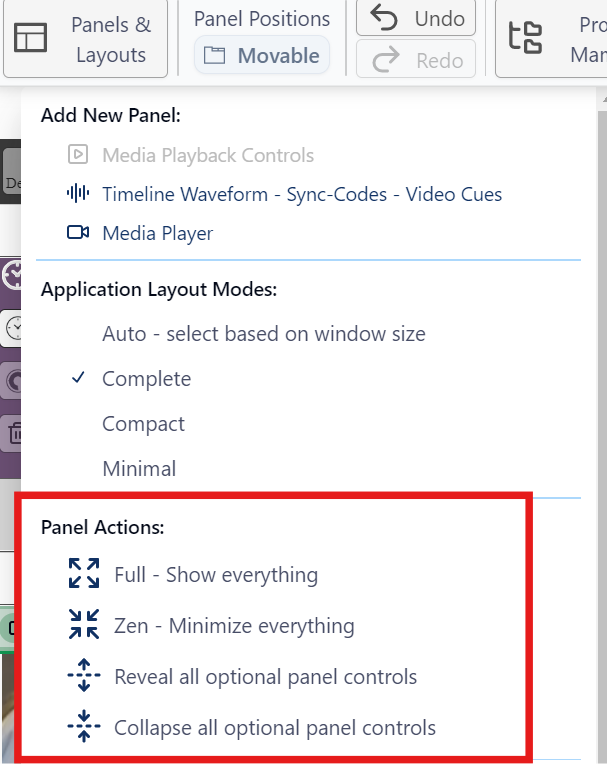
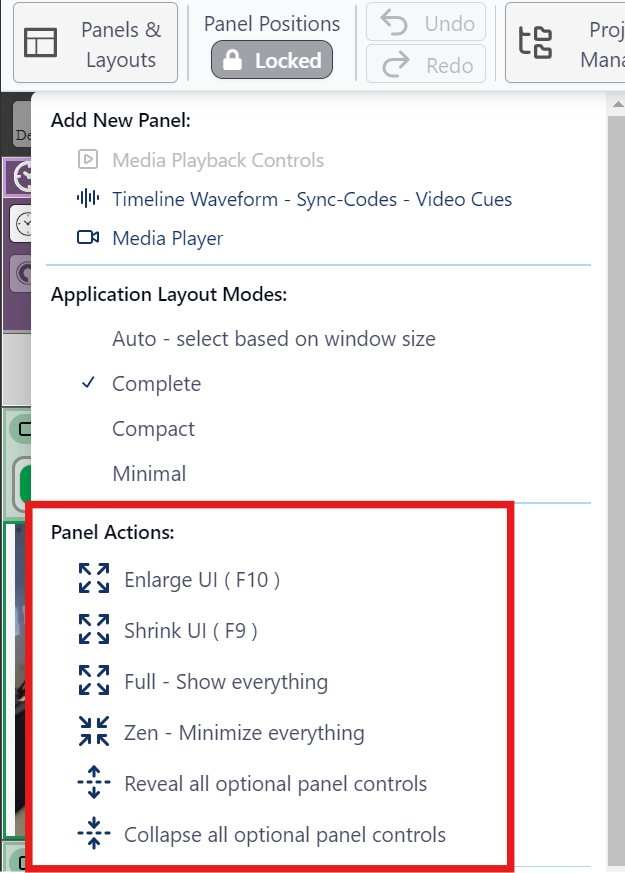
Edit and add new image to UI

Changed region(s): [[0.0, 0.0, 0.9489, 1.0], [0.5634, 0.0, 1.0, 1.0], [0.1186, 0.4817, 0.1483, 0.5118]]

diff --git a/ui.md b/ui.md
@@ -2,7 +2,7 @@
 
 The _DOTE_ user interface is comprised of several panels that can be resized and relocated within the DOTE application window.
 
-### Main panels in the user interface
+### Main bars and panels in the user interface
 
 1. [The menu bar](#menu)
 2. [The ribbon bar](#ribbon)
@@ -11,43 +11,45 @@ The _DOTE_ user interface is comprised of several panels that can be resized and
 5. [The Media Player panel(s)](#media-player)
 6. [The Editor panel](#editor)
 
+The different bars and panels are indicated on this screenshot:
+
 [![DOTE UI](images/UI/UI-simple.png)](images/UI/UI-simple.png)
 
-#### The menu bar <a id='menu'></a>
+#### 1. The menu bar <a id='menu'></a>
 
-[![Meny bar](images/UI/UI-menu.png)](images/UI/UI-menu.png)
+[![Menu bar](images/UI/UI-menu.png)](images/UI/UI-menu.png)
 
 Some, but not all, of the commands and shortcuts are available from the pull-down menus.
 Some of these menu commands do not have shortcuts.
 
-#### The ribbon bar <a id='ribbon'></a>
+#### 2. The ribbon bar <a id='ribbon'></a>
 
 [![Ribbon bar](images/UI/UI-ribbon.png)](images/UI/UI-ribbon.png)
 
 The basic functions for [Panels & Layout](ui.md), [Undo](undo.md), [version control](versioncontrol.md), [Project Manager](projects.md), [Media Manager](media-manager.md), [Project Info](project-info.md) and [DOTE Settings](settings.md) are easily accessible via these ribbon bar buttons.
 Hover over a button to see a pop-up description.
 
-#### The Media Controls panel <a id='play'></a>
+#### 3. The Media Controls panel <a id='play'></a>
 
 [![Play Transport](images/UI/UI-play.png)](images/UI/UI-play.png)
 
 The buttons for controlling [playback and selecting/looping segments](play.md).
 Hover over a button to see a pop-up description.
 
-#### The Timeline panel(s) <a id='timeline'></a>
+#### 4. The Timeline panel(s) <a id='timeline'></a>
 
 [![Timeline](images/UI/UI-timeline.png)](images/UI/UI-timeline.png)
 
 The height of the [main timeline panel](timeline.md) can be adjusted using the horizontal or vertical divider lines between it and another panel.
 
-#### The Media Player panel(s) <a id='media-player'></a>
+#### 5. The Media Player panel(s) <a id='media-player'></a>
 
 [![Media Player](images/UI/UI-media-player.png)](images/UI/UI-media-player.png)
 
 The height of the [Media Player](media-panel.md) panel can be adjusted using the horizontal or vertical divider lines between it and another panel.
 The panel can be expanded to full screen and the options hidden.
 
-#### The Editor panel <a id='editor'></a>
+#### 6. The Editor panel <a id='editor'></a>
 
 [![Editor](images/UI/UI-editor.png)](images/UI/UI-editor.png)
 
@@ -114,6 +116,12 @@ Also, from the `Panels & Layouts` button menu, there are some quick actions that
 
 [![Panel actions](images/UI/panel-actions.png)](images/UI/panel-actions.png)
 
+- Enlarge UI - Increase the font size of all panels, menus and bars.
+Shortcut is `F10` or `Function key 10`.
+Repeat to keep increasing.
+- Shrink UI - Decrease the font size of all panels, menus and bars
+Shortcut is `F9` or `Function key 9`.
+Repeat to keep decreasing.
 - Full - show all information (verbal not just icons) - this also changes to Complete mode.
 - Zen - hide everything (including verbal and panel options) - this also changes to Minimal mode.
 - Reveal all optional panel controls (just the controls).
